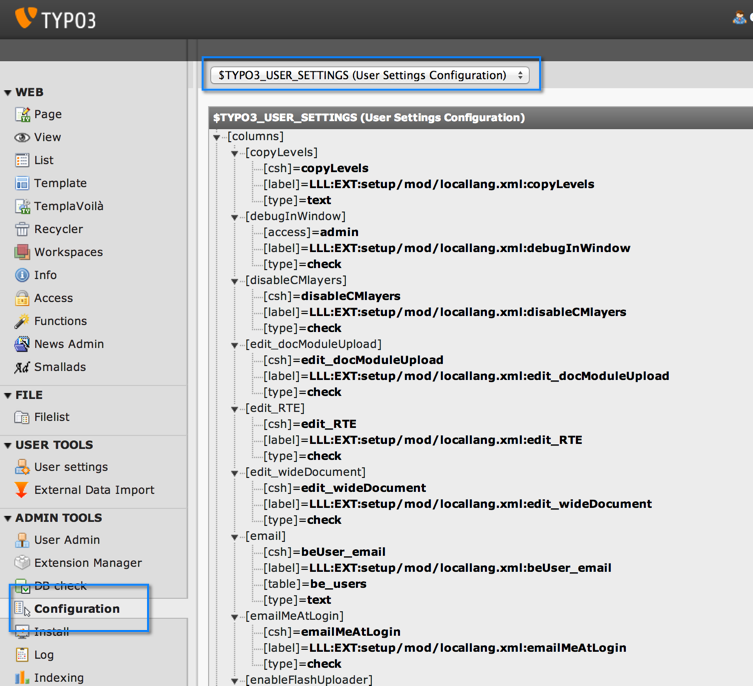
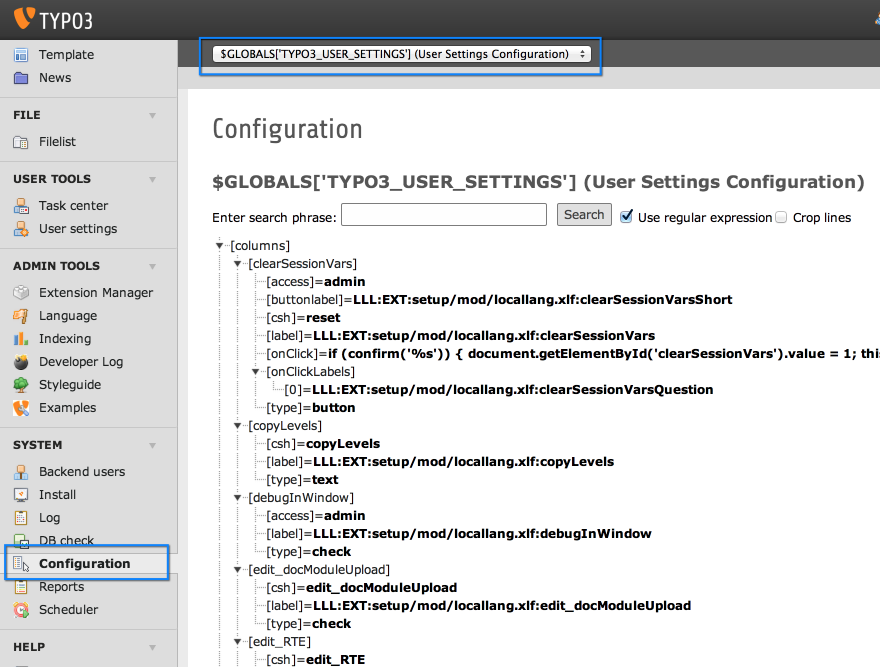
[TASK] Improved User Settings chapter
Add example about extending the User Settings.
Add missing properties in the columns section.
Updated screenshot and code examples.

Resolves: #57105
Releases: 6.2

Changed region(s): [[0.0, 0.0, 1.0, 1.0], [0.9469, 0.0, 1.0, 0.06]]

diff --git a/Documentation/UserSettingsConfiguration/Columns/Index.rst b/Documentation/UserSettingsConfiguration/Columns/Index.rst
@@ -25,37 +25,48 @@ settings. This array allows the following configurations:
  - :Key:
          type
    :Data type:
-         :ref:`t3tsref:data-type-string`
+         string
    :Description:
          Defines the type of the input field
 
          If type=user you need to define userFunc too.
 
-         **Example:** ::
+         **Example:**
 
-            'installToolEnableFile' => array(
-                    'type' => 'user',
-                    'label' => 'LLL:EXT:setup/mod/locallang.xml:InstallToolEnableFileButton',
-                    'userFunc' => 'SC_mod_user_setup_index->renderInstallToolEnableFileButton',
-                    'access' => 'admin',
-            )
+         .. code-block:: php
 
-         Allowed values: text, password, check, select, user
+			'startModule' => array(
+				'type' => 'select',
+				'itemsProcFunc' => 'TYPO3\\CMS\\Setup\\Controller\\SetupModuleController->renderStartModuleSelect',
+				'label' => 'LLL:EXT:setup/mod/locallang.xlf:startModule',
+				'csh' => 'startModule'
+			),
+
+         Allowed values: button, check, password, select, text, user
 
 
  - :Key:
          label
    :Data type:
-         :ref:`t3tsref:data-type-string`
+         string
    :Description:
          Label for the input field, should be a pointer to a localized
          label using the :code:`LLL:` syntax.
 
 
  - :Key:
+         buttonLabel
+   :Data type:
+         string
+   :Description:
+         Text of the button for type=button fields.
+         Should be a pointer to a localized label using the :code:`LLL:` syntax.
+
+
+ - :Key:
          csh
    :Data type:
-         :ref:`t3tsref:data-type-string`
+         string
    :Description:
          CSH key for the input field
 
@@ -63,7 +74,7 @@ settings. This array allows the following configurations:
  - :Key:
          access
    :Data type:
-         :ref:`t3tsref:data-type-string`
+         string
    :Description:
          Access control. At the moment only a admin-check is implemented
 
@@ -73,7 +84,7 @@ settings. This array allows the following configurations:
  - :Key:
          table
    :Data type:
-         :ref:`t3tsref:data-type-string`
+         string
    :Description:
          If the user setting is saved in a DB table, this property sets the
          table. At the moment only "be\_users" is implemented.
@@ -84,7 +95,7 @@ settings. This array allows the following configurations:
  - :Key:
          eval
    :Data type:
-         :ref:`t3tsref:data-type-string`
+         string
    :Description:
          Evaluates a field with a given function. Currently only "md5" is
          implemented, for password field.
@@ -107,6 +118,15 @@ settings. This array allows the following configurations:
 
 
  - :Key:
+         items
+   :Data type:
+         array
+   :Description:
+         List of items for type=select fields. This should be a simple associative
+         array with key-value pairs.
+
+
+ - :Key:
          itemsProcFunc
    :Data type:
          array
@@ -117,3 +137,23 @@ settings. This array allows the following configurations:
 
          Use the usual class->method syntax.
 
+
+ - :Key:
+         onClick
+   :Data type:
+         string
+   :Description:
+         JavaScript code added to a button's onClick attribute.
+         Only used by type=button. May contain :code:`sprintf()`
+         markers which will be replaced by the strings provided
+         in property :code:`onClickLabels`.
+
+
+ - :Key:
+         onClickLabels
+   :Data type:
+         array
+   :Description:
+         List of strings used to replace the markers defined in
+         :code:`onClick`. Each string should point to a localized
+         label using the :code:`LLL:` syntax.

diff --git a/Documentation/UserSettingsConfiguration/Extending/Index.rst b/Documentation/UserSettingsConfiguration/Extending/Index.rst
@@ -1,0 +1,46 @@
+.. ==================================================
+.. FOR YOUR INFORMATION
+.. --------------------------------------------------
+.. -*- coding: utf-8 -*- with BOM.
+
+.. include:: ../../Includes.txt
+
+
+.. _user-settings-extending:
+
+Extending the User Settings
+^^^^^^^^^^^^^^^^^^^^^^^^^^^
+
+Adding fields to the User Settings is done in two steps.
+First of all, the new fields are added directly to the
+:code:`$GLOBALS['TYPO3_USER_SETTINGS']` array. Then the
+field is made visible by calling
+:code:`\TYPO3\CMS\Core\Utility\ExtensionManagementUtility::addFieldsToUserSettings()`.
+
+Here is an example, taken from the "examples" extension:
+
+.. code-block:: php
+
+	$GLOBALS['TYPO3_USER_SETTINGS']['columns']['tx_examples_mobile'] = array(
+		'label' => 'LLL:EXT:examples/Resources/Private/Language/locallang_db.xlf:be_users.tx_examples_mobile',
+		'type' => 'text',
+		'table' => 'be_users',
+	);
+	\TYPO3\CMS\Core\Utility\ExtensionManagementUtility::addFieldsToUserSettings(
+		'LLL:EXT:examples/Resources/Private/Language/locallang_db.xlf:be_users.tx_examples_mobile,tx_examples_mobile',
+		'after:email'
+	);
+
+The second parameter in the call to :code:`addFieldsToUserSettings()`
+is used to position the new field. In this example, we decide to add it
+after the existing "email" field.
+
+In this example the field is also added to the "be_users" table. This is
+not described here as it belongs to :ref:`extending the $TCA array <t3tca:extending>`.
+
+And here is the new field in the User Tools > User Settings module:
+
+.. figure:: ../../Images/UserSettingsExtending.png
+   :alt: Extending the User Settings configuration
+
+   The new field visible in the User Settings configuration

diff --git a/Documentation/UserSettingsConfiguration/Showitem/Index.rst b/Documentation/UserSettingsConfiguration/Showitem/Index.rst
@@ -15,11 +15,13 @@ This string is used for rendering the form in the user setup module.
 It contains a comma-separated list of fields, which will be rendered
 in that order.
 
-To use a tab insert a "--div--;LABEL" item in the list.
+To use a tab insert a :code:`--div--;LLL:EXT:foo/...` item in the list.
 
-Example (taken from :file:`typo3/sysext/setup/ext_tables.php`)::
+Example (taken from :file:`typo3/sysext/setup/ext_tables.php`):
 
-   	'showitem' => '--div--;LLL:EXT:setup/mod/locallang.xml:personal_data,realName,email,emailMeAtLogin,password,password2,lang,
-   			--div--;LLL:EXT:setup/mod/locallang.xml:opening,startModule,thumbnailsByDefault,titleLen,
-   			--div--;LLL:EXT:setup/mod/locallang.xml:editFunctionsTab,edit_RTE,edit_wideDocument,edit_docModuleUpload,enableFlashUploader,resizeTextareas,resizeTextareas_Flexible,resizeTextareas_MaxHeight,disableCMlayers,copyLevels,recursiveDelete,
-   			--div--;LLL:EXT:setup/mod/locallang.xml:adminFunctions,simulate,debugInWindow'
+.. code-block:: php
+
+	'showitem' => '--div--;LLL:EXT:setup/mod/locallang.xlf:personal_data,realName,email,emailMeAtLogin,password,password2,lang,
+			--div--;LLL:EXT:setup/mod/locallang.xlf:opening,startModule,thumbnailsByDefault,titleLen,
+			--div--;LLL:EXT:setup/mod/locallang.xlf:editFunctionsTab,edit_RTE,edit_wideDocument,edit_docModuleUpload,showHiddenFilesAndFolders,resizeTextareas,resizeTextareas_Flexible,resizeTextareas_MaxHeight,copyLevels,recursiveDelete,resetConfiguration,clearSessionVars,
+			--div--;LLL:EXT:setup/mod/locallang.xlf:adminFunctions,simulate,debugInWindow'

diff --git a/Documentation/UserSettingsConfiguration/Index.rst b/Documentation/UserSettingsConfiguration/Index.rst
@@ -31,4 +31,5 @@ Reference
    Ctrl/Index
    Columns/Index
    Showitem/Index
+   Extending/Index
    Checking/Index
